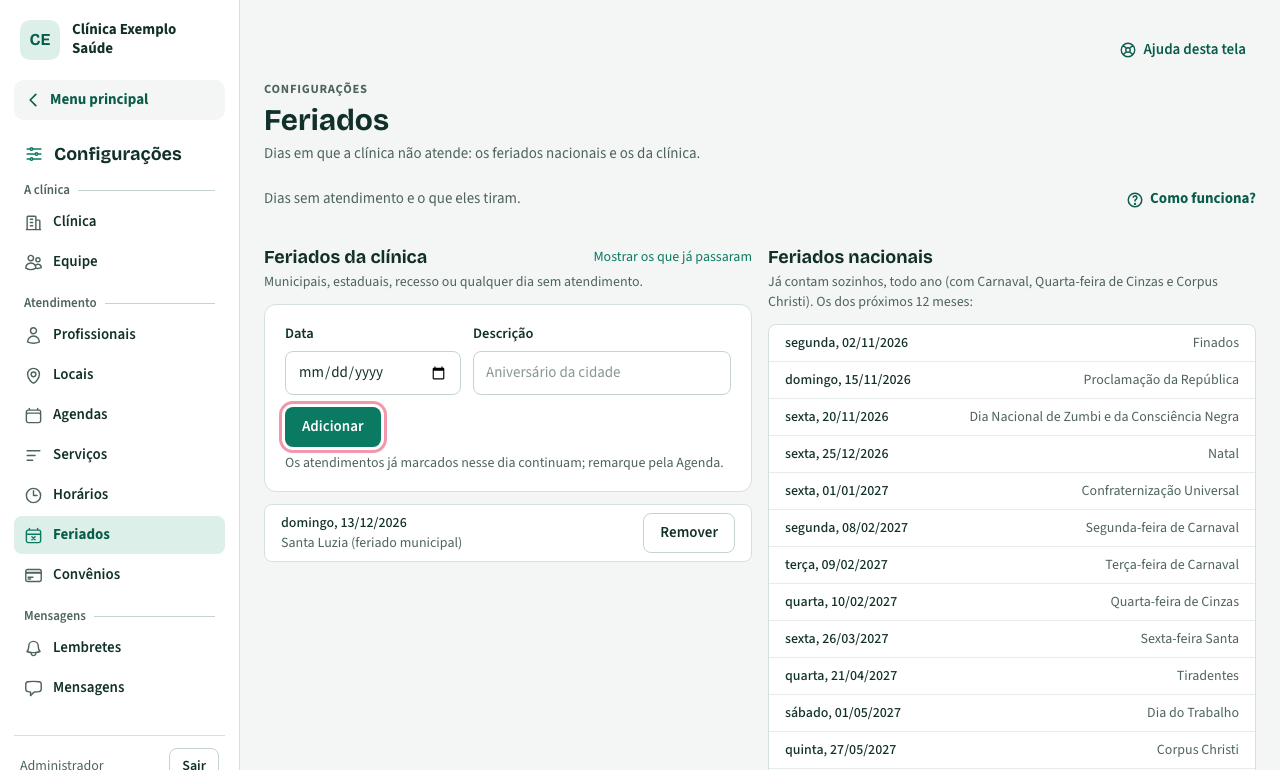
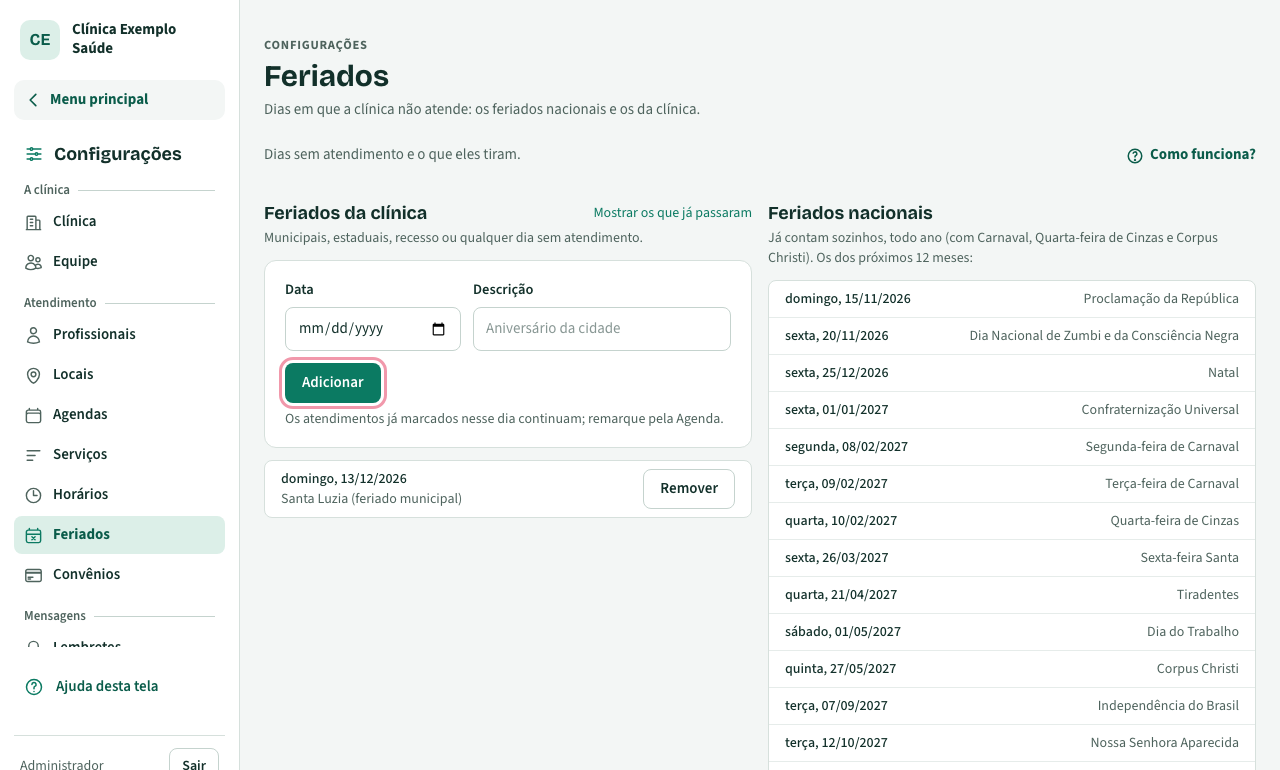
Capturas da Central de Ajuda refeitas (Ajuda desta tela e NA)

diff --git a/docs/capturas-pendentes.md b/docs/capturas-pendentes.md
@@ -9,31 +9,4 @@ a captura e o motivo, avisar o cliente no fim da etapa e esperar a autorização
 
 ## Pendentes
 
-- `inicio` — sem a faixa "Ajuda desta tela" acima do título (agora no menu lateral) (07/11/2026)
-- `agenda-dia` — sem a faixa "Ajuda desta tela" acima do título (agora no menu lateral) (07/11/2026)
-- `marcar` — sem a faixa "Ajuda desta tela" acima do título (agora no menu lateral) (07/11/2026)
-- `bloquear` — sem a faixa "Ajuda desta tela" acima do título (agora no menu lateral) (07/11/2026)
-- `bloqueios` — sem a faixa "Ajuda desta tela" acima do título (agora no menu lateral) (07/11/2026)
-- `pacientes` — sem a faixa "Ajuda desta tela" acima do título (agora no menu lateral) (07/11/2026)
-- `paciente-novo` — sem a faixa "Ajuda desta tela" acima do título (agora no menu lateral) (07/11/2026)
-- `resumo-do-dia` — sem a faixa "Ajuda desta tela" acima do título (agora no menu lateral) (07/11/2026)
-- `atendimento` — sem a faixa "Ajuda desta tela" acima do título (agora no menu lateral) (07/11/2026)
-- `conversas` — sem a faixa "Ajuda desta tela" acima do título (agora no menu lateral) (07/11/2026)
-- `relacionamento` — sem a faixa "Ajuda desta tela" acima do título (agora no menu lateral) (07/11/2026)
-- `metricas` — sem a faixa "Ajuda desta tela" acima do título (agora no menu lateral) (07/11/2026)
-- `financeiro` — sem a faixa "Ajuda desta tela" acima do título (agora no menu lateral) (07/11/2026)
-- `config-clinica` — sem a faixa "Ajuda desta tela" acima do título (agora no menu lateral) (07/11/2026)
-- `config-profissionais` — sem a faixa "Ajuda desta tela" acima do título (agora no menu lateral) (07/11/2026)
-- `config-locais` — sem a faixa "Ajuda desta tela" acima do título (agora no menu lateral) (07/11/2026)
-- `config-agendas` — sem a faixa "Ajuda desta tela" acima do título (agora no menu lateral) (07/11/2026)
-- `config-servicos` — sem a faixa "Ajuda desta tela" acima do título (agora no menu lateral) (07/11/2026)
-- `config-horarios` — sem a faixa "Ajuda desta tela" acima do título (agora no menu lateral) (07/11/2026)
-- `config-feriados` — sem a faixa "Ajuda desta tela" acima do título (agora no menu lateral) (07/11/2026)
-- `config-convenios` — sem a faixa "Ajuda desta tela" acima do título (agora no menu lateral) (07/11/2026)
-- `config-lembretes` — sem a faixa "Ajuda desta tela" acima do título (agora no menu lateral) (07/11/2026)
-- `config-mensagens` — sem a faixa "Ajuda desta tela" acima do título (agora no menu lateral) (07/11/2026)
-- `config-whatsapp` — sem a faixa "Ajuda desta tela" acima do título (agora no menu lateral) (07/11/2026)
-- `config-nota-fiscal` — sem a faixa "Ajuda desta tela" acima do título (agora no menu lateral) (07/11/2026)
-- `equipe` — sem a faixa "Ajuda desta tela" acima do título (agora no menu lateral) (07/11/2026)
-- `conversas` — aba "Pessoal e admin.", filtro Todas/Minhas no lugar do "Mostrar" e menu ⋯ (NA4) (07/11/2026)
-- `atendimento` — aba "Pessoal e administrativo" e botão "Não é atendimento" (NA5) (07/11/2026)
+Nenhuma (recapturadas em 07/11/2026: as 26 da "Ajuda desta tela" e as da NA, `conversas` e `atendimento`).
